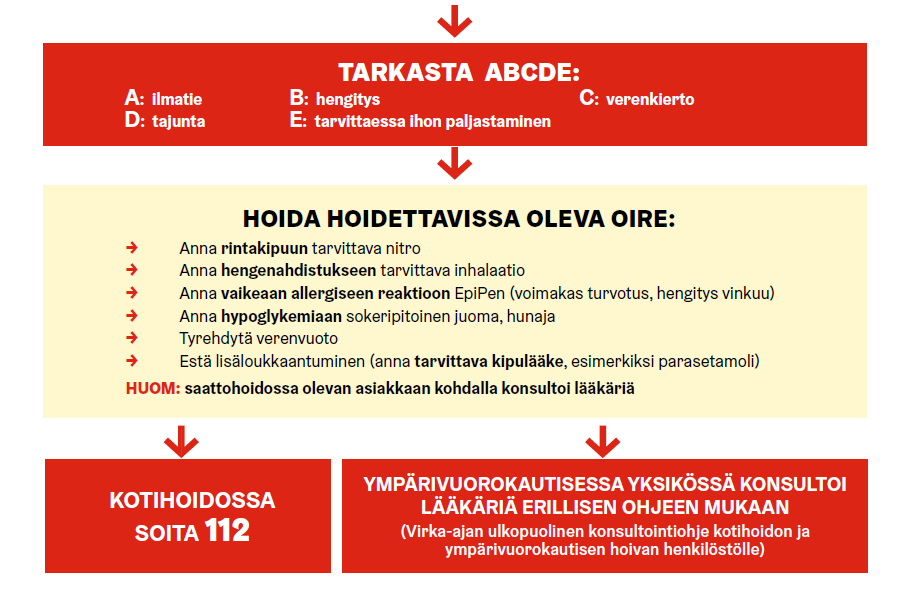
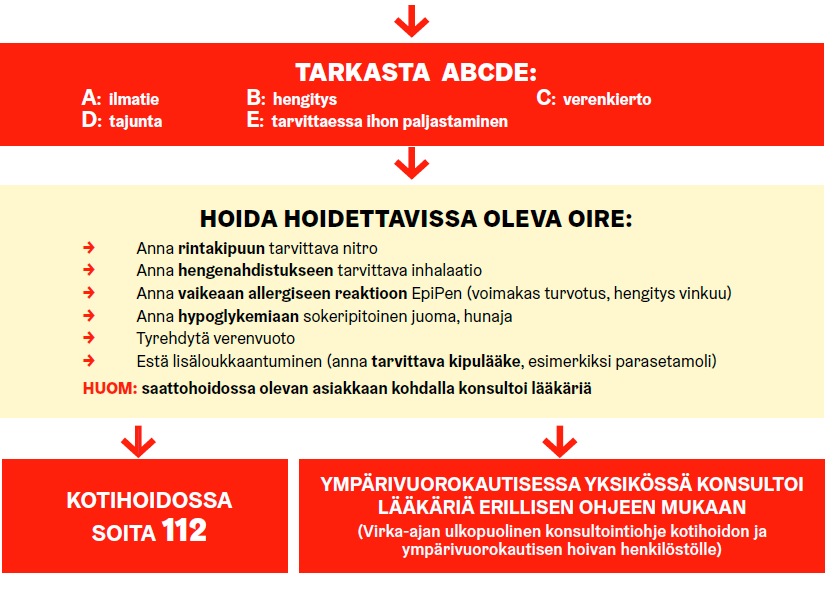
emergencypage done

diff --git a/src/Pages/EmergencyPage.js b/src/Pages/EmergencyPage.js
@@ -42,17 +42,9 @@ function EmergencyPage({ setEmergencyVisibility, visibility, careType }) {
         <SymptomCard content={ESC.vitaalihairio} />
         <SymptomCard content={ESC.voimakasallergia} />
         <SymptomCard content={ESC.voimakasverenvuoto} />
-        <img
-          src={hatatilanne}
-          alt=""
-          style={{
-            display: "block",
-            marginLeft: "auto",
-            marginRight: "auto",
-            maxWidth: "100%",
-            height: "auto"
-          }}
-        />
+        <div className="hatatilanne-image">
+          <img src={hatatilanne} alt="" />
+        </div>
       </div>
     </div>
   );

diff --git a/src/App.scss b/src/App.scss
@@ -188,6 +188,15 @@ body {
           }
         }
       }
+      .hatatilanne-image {
+        img {
+          display: block;
+          margin-left: auto;
+          margin-right: auto;
+          max-width: 100%;
+          height: auto;
+        }
+      }
     }
   }
 
